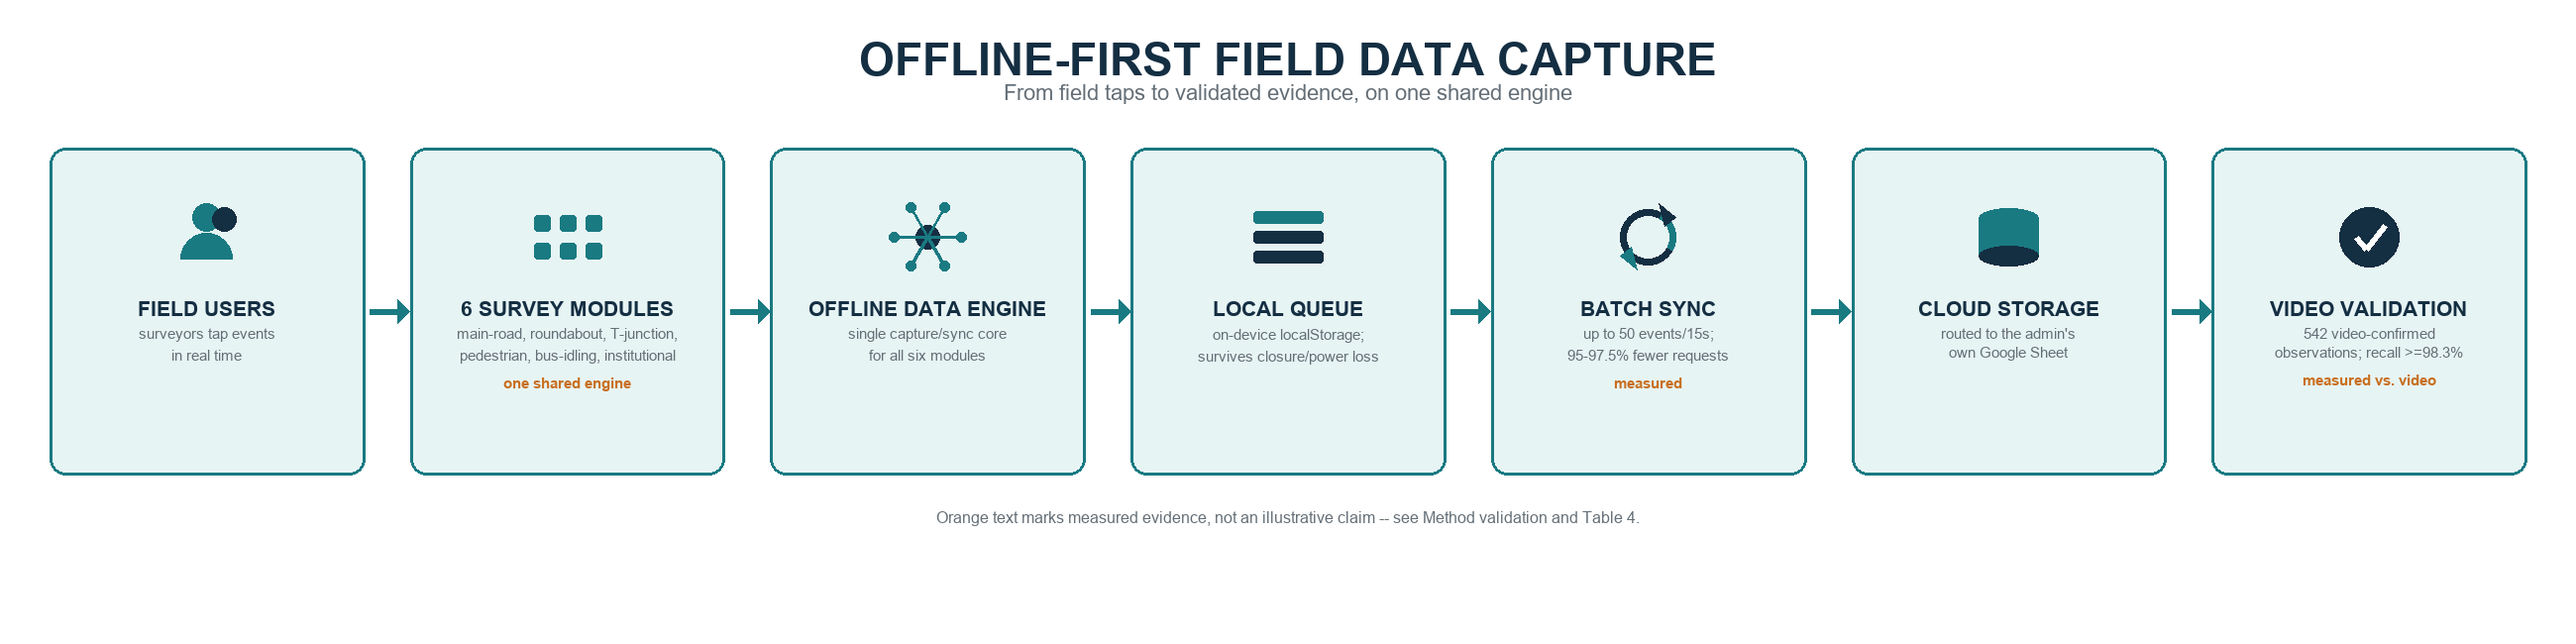
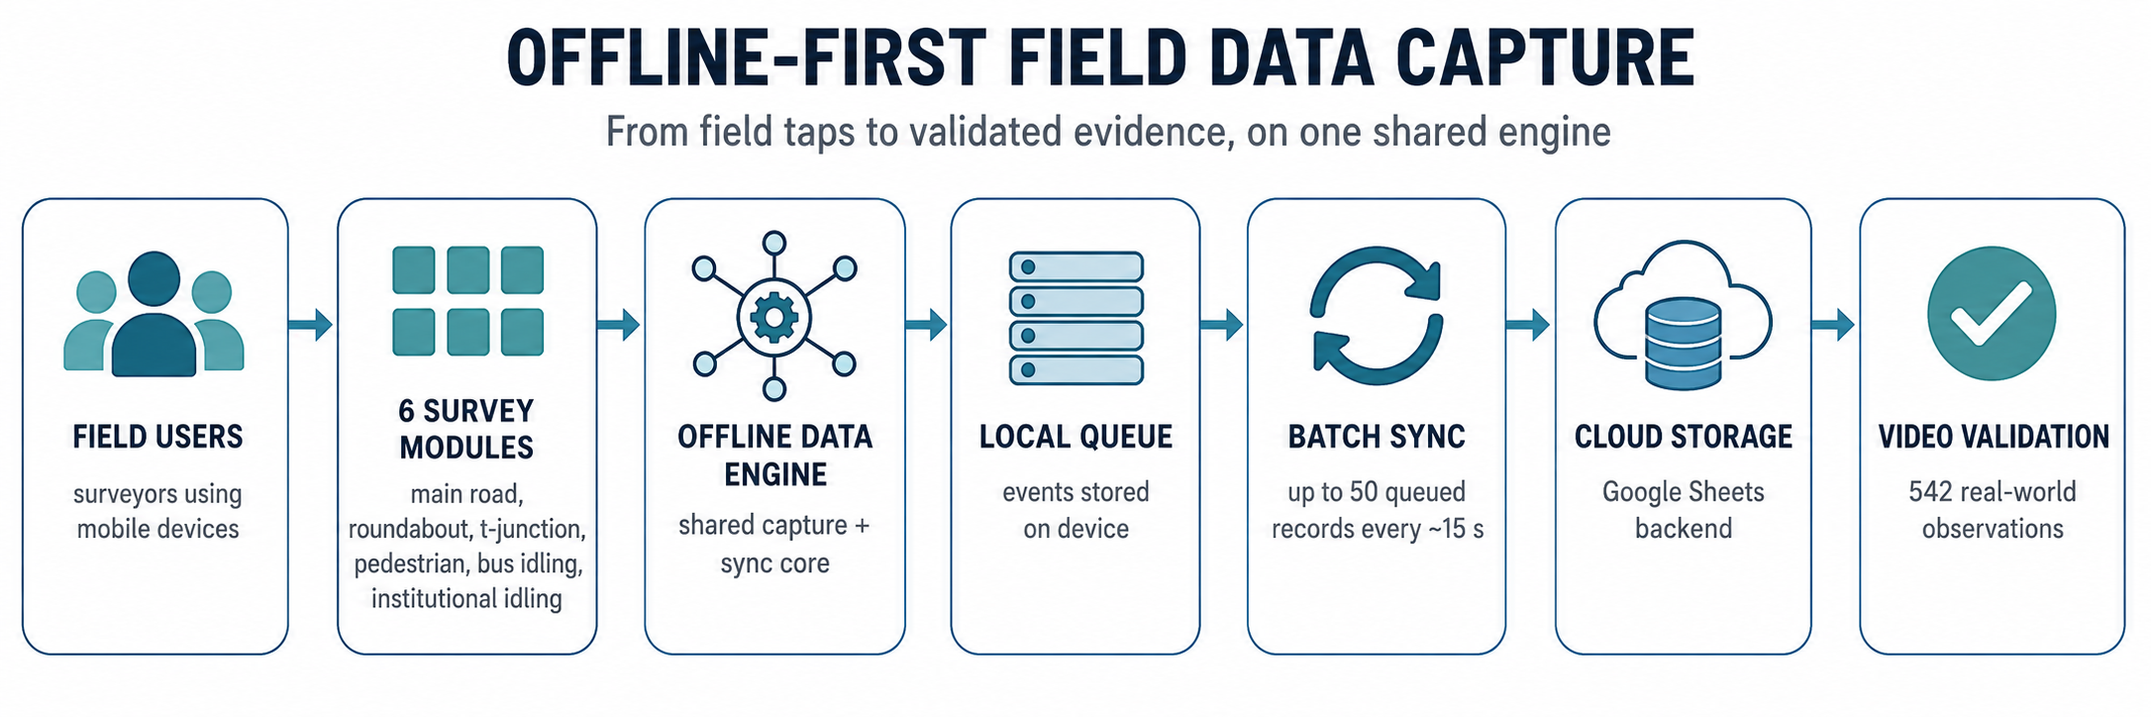
Replace Figure 1 and graphical abstract with externally produced versions; Figure 2 to landscape
- Figure 1: TikZ diagram replaced with a supplied architecture diagram
  (figure1_architecture.png), patched (patch_figure1_dedup_note.py) to
  fix a stale 'not yet deployed' annotation now that the dedup fix is
  live -- see previous commit.
- Graphical abstract: replaced with a supplied, more polished landscape
  version (same 7-stage flow content: Field Users through Video
  Validation); the earlier PIL-generated script is kept for reference,
  not deleted.
- Figure 2 (module composite): rebuilt as a single landscape row of six
  screenshots instead of a near-square 3x2 grid.

diff --git a/figures/patch_figure1_dedup_note.py b/figures/patch_figure1_dedup_note.py
@@ -1,0 +1,95 @@
+"""
+patch_figure1_dedup_note.py -- corrects a stale annotation on figure1_architecture.png.
+
+figure1_architecture.png (the manuscript's Figure 1) is an externally
+produced diagram, not generated by a script in this repository. As
+supplied, its dashed callout box read "eventId-based dedup path
+implemented here, not yet deployed, not separately shown" -- accurate
+when the diagram was made, but stale after the password-hashing and
+idempotency fixes were deployed to the live backend on 28 August 2026
+(docs/idempotency_and_password_hashing.md). Left uncorrected, the figure
+would have visibly contradicted the manuscript's own text and caption.
+
+This script whites out that callout box and redraws it with the corrected
+wording, in place, leaving the rest of the diagram untouched. It is not
+meant to be re-run against a fresh copy of the source diagram without
+re-checking the box coordinates by eye first, the same caveat that
+applies to tools/redact/blur_figure2.py.
+
+Usage:
+    python patch_figure1_dedup_note.py <input_image> <output_image>
+"""
+
+import sys
+import math
+from PIL import Image, ImageDraw, ImageFont
+
+
+def dashed_line(draw, p0, p1, color, dash=6, gap=5, width=2):
+    x0, y0 = p0
+    x1, y1 = p1
+    length = math.hypot(x1 - x0, y1 - y0)
+    if length == 0:
+        return
+    dx, dy = (x1 - x0) / length, (y1 - y0) / length
+    dist = 0
+    while dist < length:
+        seg_end = min(dist + dash, length)
+        draw.line(
+            [(x0 + dx * dist, y0 + dy * dist), (x0 + dx * seg_end, y0 + dy * seg_end)],
+            fill=color, width=width,
+        )
+        dist += dash + gap
+
+
+def font(size):
+    for name in ("ariali.ttf", "arial.ttf"):
+        try:
+            return ImageFont.truetype(name, size)
+        except Exception:
+            continue
+    return ImageFont.load_default()
+
+
+def main():
+    if len(sys.argv) != 3:
+        print("Usage: python patch_figure1_dedup_note.py <input_image> <output_image>")
+        sys.exit(1)
+
+    src_path, dst_path = sys.argv[1], sys.argv[2]
+    img = Image.open(src_path).convert("RGB")
+    draw = ImageDraw.Draw(img)
+
+    # Whiteout the stale callout box (generous margin beyond the detected
+    # dashed border, set by visual inspection of this specific diagram).
+    draw.rectangle((1055, 468, 1350, 618), fill=(255, 255, 255))
+
+    gray = (150, 150, 150)
+    x0, y0, x1, y1 = 1060, 472, 1345, 614
+    r = 14
+    dashed_line(draw, (x0 + r, y0), (x1 - r, y0), gray)
+    dashed_line(draw, (x0 + r, y1), (x1 - r, y1), gray)
+    dashed_line(draw, (x0, y0 + r), (x0, y1 - r), gray)
+    dashed_line(draw, (x1, y0 + r), (x1, y1 - r), gray)
+
+    f = font(17)
+    lines = [
+        "eventId-based dedup path",
+        "implemented and deployed here",
+        "(28 Aug 2026), not separately",
+        "shown",
+    ]
+    ty = y0 + 18
+    for line in lines:
+        bbox = draw.textbbox((0, 0), line, font=f)
+        lw = bbox[2] - bbox[0]
+        cx = (x0 + x1) / 2
+        draw.text((cx - lw / 2, ty), line, font=f, fill=(40, 40, 40))
+        ty += 26
+
+    img.save(dst_path)
+    print("saved", dst_path)
+
+
+if __name__ == "__main__":
+    main()

diff --git a/figures/build_composite.py b/figures/build_composite.py
@@ -1,8 +1,9 @@
 from PIL import Image, ImageDraw, ImageFont
 import os
 
-SRC_DIR = r"C:\Users\User\Desktop\PB\module_screenshots"
-OUT_PATH = r"C:\Users\User\Desktop\PB\module_composite.png"
+HERE = os.path.dirname(os.path.abspath(__file__))
+SRC_DIR = os.path.join(HERE, "module_screenshots")
+OUT_PATH = os.path.join(HERE, "figure1_module_composite.png")
 
 modules = [
     ("main-road", "Main Road"),
@@ -13,22 +14,20 @@ modules = [
     ("institutional-idling", "Institutional Idling"),
 ]
 
-# Load and letterbox each screenshot to a common cell size, cropping to the
-# top portion (where the module's distinctive UI is) since some screens are
-# much taller-looking than others once content varies.
-CELL_W, CELL_H = 480, 700
-LABEL_H = 60
-PAD = 16
+# Landscape layout: all six phone-shaped screenshots in a single row, so the
+# overall composite is wide rather than the earlier near-square 3x2 grid.
+CELL_W, CELL_H = 380, 620
+LABEL_H = 50
+PAD = 14
 
 try:
-    font = ImageFont.truetype("arialbd.ttf", 32)
+    font = ImageFont.truetype("arialbd.ttf", 26)
 except Exception:
     font = ImageFont.load_default()
 
 cells = []
 for slug, label in modules:
     img = Image.open(os.path.join(SRC_DIR, f"{slug}.png")).convert("RGB")
-    # scale to fit width, crop/pad to CELL_H
     scale = CELL_W / img.width
     new_h = int(img.height * scale)
     img = img.resize((CELL_W, new_h), Image.LANCZOS)
@@ -40,7 +39,7 @@ for slug, label in modules:
         img = canvas
     cells.append((img, label))
 
-cols, rows = 3, 2
+cols, rows = 6, 1
 total_w = cols * CELL_W + (cols + 1) * PAD
 total_h = rows * (CELL_H + LABEL_H) + (rows + 1) * PAD
 
@@ -54,7 +53,7 @@ for i, (img, label) in enumerate(cells):
     y = PAD + row * (CELL_H + LABEL_H + PAD)
     composite.paste(img, (x, y))
     draw.rectangle([x, y, x + CELL_W - 1, y + CELL_H - 1], outline=(0, 0, 0), width=2)
-    text_y = y + CELL_H + 10
+    text_y = y + CELL_H + 8
     bbox = draw.textbbox((0, 0), label, font=font)
     text_w = bbox[2] - bbox[0]
     draw.text((x + (CELL_W - text_w) / 2, text_y), label, fill=(0, 0, 0), font=font)

diff --git a/figures/README.md b/figures/README.md
@@ -1,18 +1,38 @@
-# Figures (D2/D3/D4)
+# Figures
 
-## Figure 1: six-module composite (`figure1_module_composite.png`)
+## Figure 1: architecture diagram (`figure1_architecture.png`)
+
+Data path from a recorded tap to the administrator's Sheet: device UI ->
+local queue -> persistent backup -> service worker -> 15-second sync timer
+-> Apps Script Web App (routing / validity cache / rate limiter) ->
+per-administrator Sheet, with the Admin Portal (login/config) shown
+separately, and each stage annotated by an evidence legend (measured
+directly / tested / asserted from code inspection only).
+
+This is an externally produced diagram (not generated by a script in this
+repository, unlike the graphical abstract below). `patch_figure1_dedup_note.py`
+corrects one detail on the supplied image: the callout box originally read
+"eventId-based dedup path implemented here, not yet deployed" -- accurate
+when the diagram was made, stale after the fix was deployed on 28 August
+2026. See that script's docstring for what it does and why a direct pixel
+patch, rather than a full rebuild, was the appropriate fix here.
+
+## Figure 2: six-module composite (`figure1_module_composite.png`)
 
 Real screenshots of all six modules' recording interfaces, not mockups. Generated via:
 
 1. `take_screenshots.py` — serves the repository locally (`python -m http.server 8765` from the repo root) and uses Playwright (headless Chromium) to load each module with `?skipSetup=true&admin=<a registered admin ID>&...` (a deep-link the app itself supports, bypassing the setup form) and screenshot the resulting recording screen. Raw screenshots saved to `module_screenshots/`.
-2. `build_composite.py` — arranges the six screenshots into a labeled 3x2 grid, saved as `figure1_module_composite.png` (used as Figure 1 in the manuscript).
+2. `build_composite.py` — arranges the six screenshots into a single landscape row (one module per column), saved as `figure1_module_composite.png` (used as Figure 2 in the manuscript). An earlier version used a 3x2 grid; this was changed to a single row so the overall figure reads as landscape rather than near-square.
 
-**A real bug surfaced while building this**, unrelated to the figure itself: four of the six modules threw a JavaScript `ReferenceError` on load in a real browser (`loadOfflineQueue is not defined` in `roundabout/app.js`; `updateNetworkStatus is not defined` in `pedestrian/app.js` and `institutional-idling/app.js`; `processQueue is not defined` in `bus-idling/app.js`) — only `main-road` and `t-junction` loaded without error. The screenshots were still captured correctly by forcing the screen transition directly (see the `force_survey_js` workaround in `take_screenshots.py`), so the figure is accurate, but **these are real, live defects in the deployed frontend**, not an artifact of the screenshot method. They were not fixed here (out of scope for a figures task) and are reported in the round-2 final summary for the authors to address.
+**A real bug surfaced while building this**, unrelated to the figure itself: four of the six modules threw a JavaScript `ReferenceError` on load in a real browser (`loadOfflineQueue is not defined` in `roundabout/app.js`; `updateNetworkStatus is not defined` in `pedestrian/app.js` and `institutional-idling/app.js`; `processQueue is not defined` in `bus-idling/app.js`) — only `main-road` and `t-junction` loaded without error. The screenshots were still captured correctly by forcing the screen transition directly (see the `force_survey_js` workaround in `take_screenshots.py`), so the figure is accurate, but **these are real, live defects in the deployed frontend**, not an artifact of the screenshot method. They were not fixed here (out of scope for a figures task) and are reported in TECHNICAL_DOCUMENTATION.md for the authors to address.
 
-## Figure 3 / architecture diagram (D2)
+## Graphical abstract (`graphical_abstract.png`)
 
-Built directly as a TikZ figure in the manuscript's `.tex` source (not a separate file), since TikZ compiles natively to vector PDF without any DPI or SVG-conversion concern. See the manuscript source around `\begin{tikzpicture}` (Method details, before "Frontend") for the diagram definition — layered device UI -> local queue -> persistent backup -> service worker -> 15-second sync timer -> Apps Script Web App (routing / validity cache / rate limiter) -> per-administrator Sheet -> Admin Portal, with each stage colored by whether its behavior is measured, tested, or asserted from code inspection only.
-
-## Graphical abstract (D4, `graphical_abstract.png`)
-
-Replaces the previous graphical abstract, which depicted an "OFFLINE BACKUP" step with an email icon -- a visual reference to the Email Backup control that does not exist in this codebase (see the manuscript's Data integrity safeguards section and its author-decision flag). The new version (`build_graphical_abstract.py`) shows the five stages D4 asked for -- user, offline capture, batch sync, backend, validation -- with the batch-sync and validation figures pulled directly from measured results (Table 4, Table 5), not illustrative placeholders. 600x1500 px, above the 531x1328 px minimum.
+Externally produced landscape flow diagram: Field Users -> 6 Survey Modules
+-> Offline Data Engine -> Local Queue -> Batch Sync -> Cloud Storage ->
+Video Validation, with the batch-sync and validation figures pulled
+directly from measured results (Table 4, Table 5 in the manuscript), not
+illustrative placeholders. An earlier version (`build_graphical_abstract.py`,
+kept in this directory for reference) was generated programmatically with
+PIL; it was superseded by this externally produced version at the authors'
+request for a more polished visual treatment.
